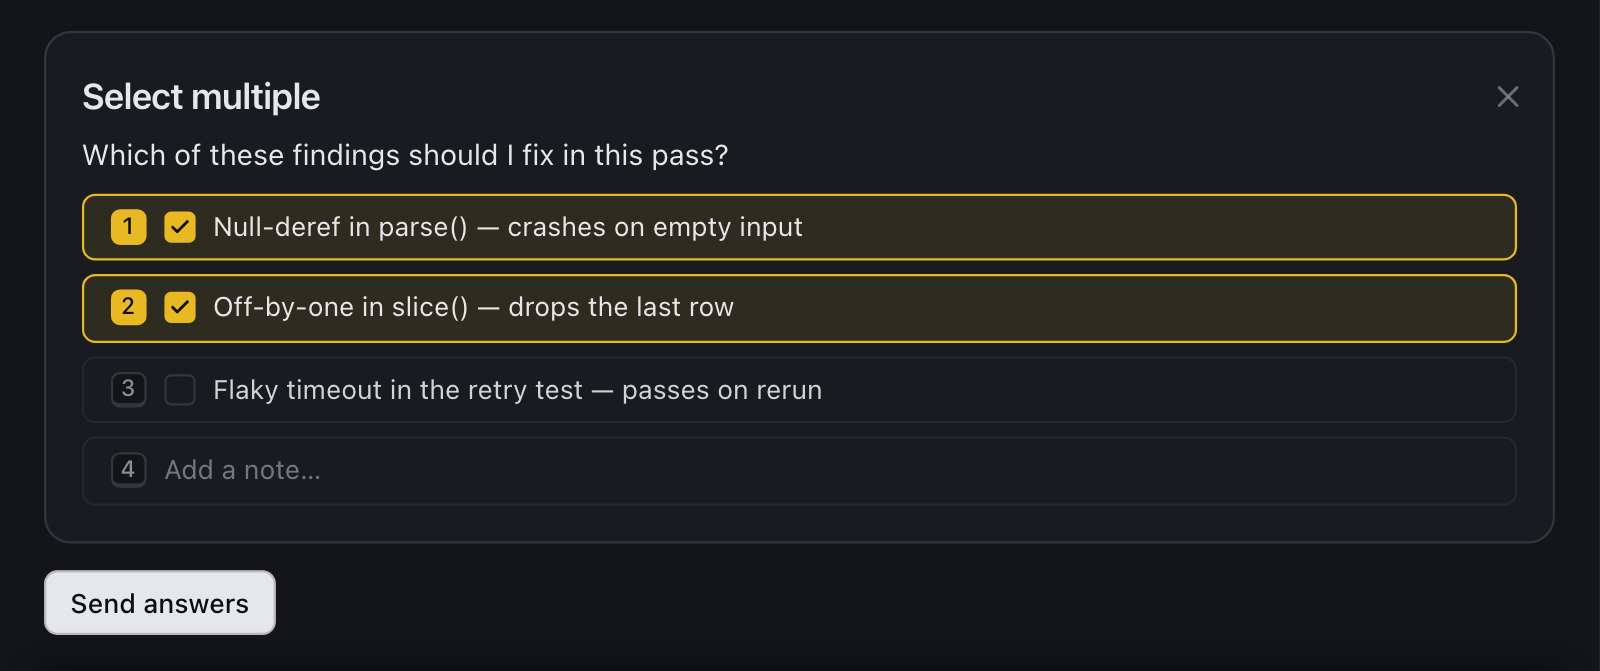
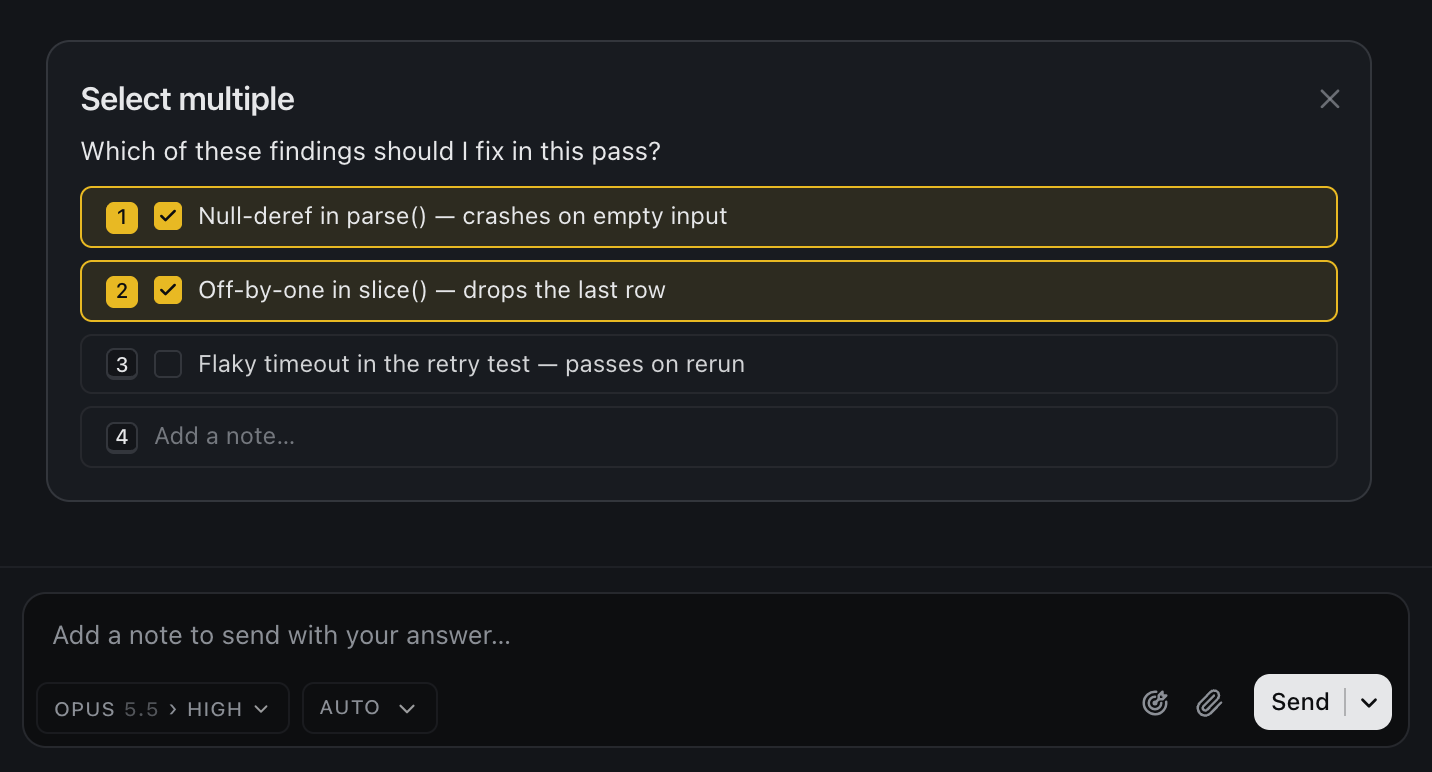
docs(readme): re-shoot the question cards without the retired Send answers button
The question cards no longer draw a Send answers button beside a prompt box: the answers leave
through the box's own Send. question.png and question-multi.png still showed the old button, so
both are re-captured from a seeded sandbox stack (the thread's full page, 1440 wide, dark, sans,
2x), framed from the card through the prompt box. They are 1432 wide now (700 and 772 tall); the
site's copy, its cache buster and its dimensions move with question.png.

Two verify scripts that pressed the old button press the prompt box's Send instead.

diff --git a/site/index.html b/site/index.html
@@ -74,7 +74,7 @@
             <p>A worker runs until it reaches something only you can settle, then asks a question with numbered options. A number key picks an answer and Enter sends it. Nothing shows up just to be dismissed.</p>
           </div>
           <figure class="shot">
-            <img src="/img/question.png?v=3c28a953" width="1600" height="591" loading="lazy" alt="A question card: 'Should the settings store use SQLite or a JSON file?' with two options numbered 1 and 2 on keycaps, the first tagged RECOMMENDED, and a row numbered 3 for typing something else." />
+            <img src="/img/question.png?v=80b84829" width="1432" height="700" loading="lazy" alt="A question card: 'Should the settings store use SQLite or a JSON file?' with two options numbered 1 and 2 on keycaps, the first tagged RECOMMENDED, and a row numbered 3 for typing something else, above the prompt box and its Send button." />
           </figure>
         </div>
         <div class="row">

diff --git a/README.md b/README.md
@@ -84,15 +84,15 @@ The queue is strict about what earns a card, which is what keeps it a real todo 
 **Threads are built to run without you.** A worker keeps going until it reaches something only you can settle — a product call, a fork where guessing wrong is expensive to undo, an irreversible action — and then it hands back an answerable *question* rather than a wall of text for you to re-read and interpret.
 
 <p align="center">
-  <img src="assets/question.png" alt="A question card titled Question: 'Should the settings store use SQLite or a JSON file?' with two options numbered 1 and 2 on keycaps, the first tagged RECOMMENDED, a third row numbered 3 for typing something else, and a Send answers button." width="100%">
+  <img src="assets/question.png" alt="A question card titled Question: 'Should the settings store use SQLite or a JSON file?' with two options numbered 1 and 2 on keycaps, the first tagged RECOMMENDED, and a third row numbered 3 for typing something else, above the prompt box and its Send button." width="100%">
 </p>
 
-Options are numbered: press an option's number or click it to pick it, then Enter to send. A worker marks its own recommendation when it has one. There is always a row for writing something else instead.
+Options are numbered: press an option's number or click it to pick it, then Enter to send it, along with anything typed in the prompt box below. A worker marks its own recommendation when it has one. There is always a row for writing something else instead.
 
 When the answer isn't one thing, the same card takes several: check any combination and add a note.
 
 <p align="center">
-  <img src="assets/question-multi.png" alt="A question card titled Select multiple: 'Which of these findings should I fix in this pass?' with three numbered checkbox options, the first two ticked, a fourth numbered row for adding a note, and a Send answers button." width="100%">
+  <img src="assets/question-multi.png" alt="A question card titled Select multiple: 'Which of these findings should I fix in this pass?' with three numbered checkbox options, the first two ticked, and a fourth numbered row for adding a note, above the prompt box, whose Send button is lit." width="100%">
 </p>
 
 ### GitHub
